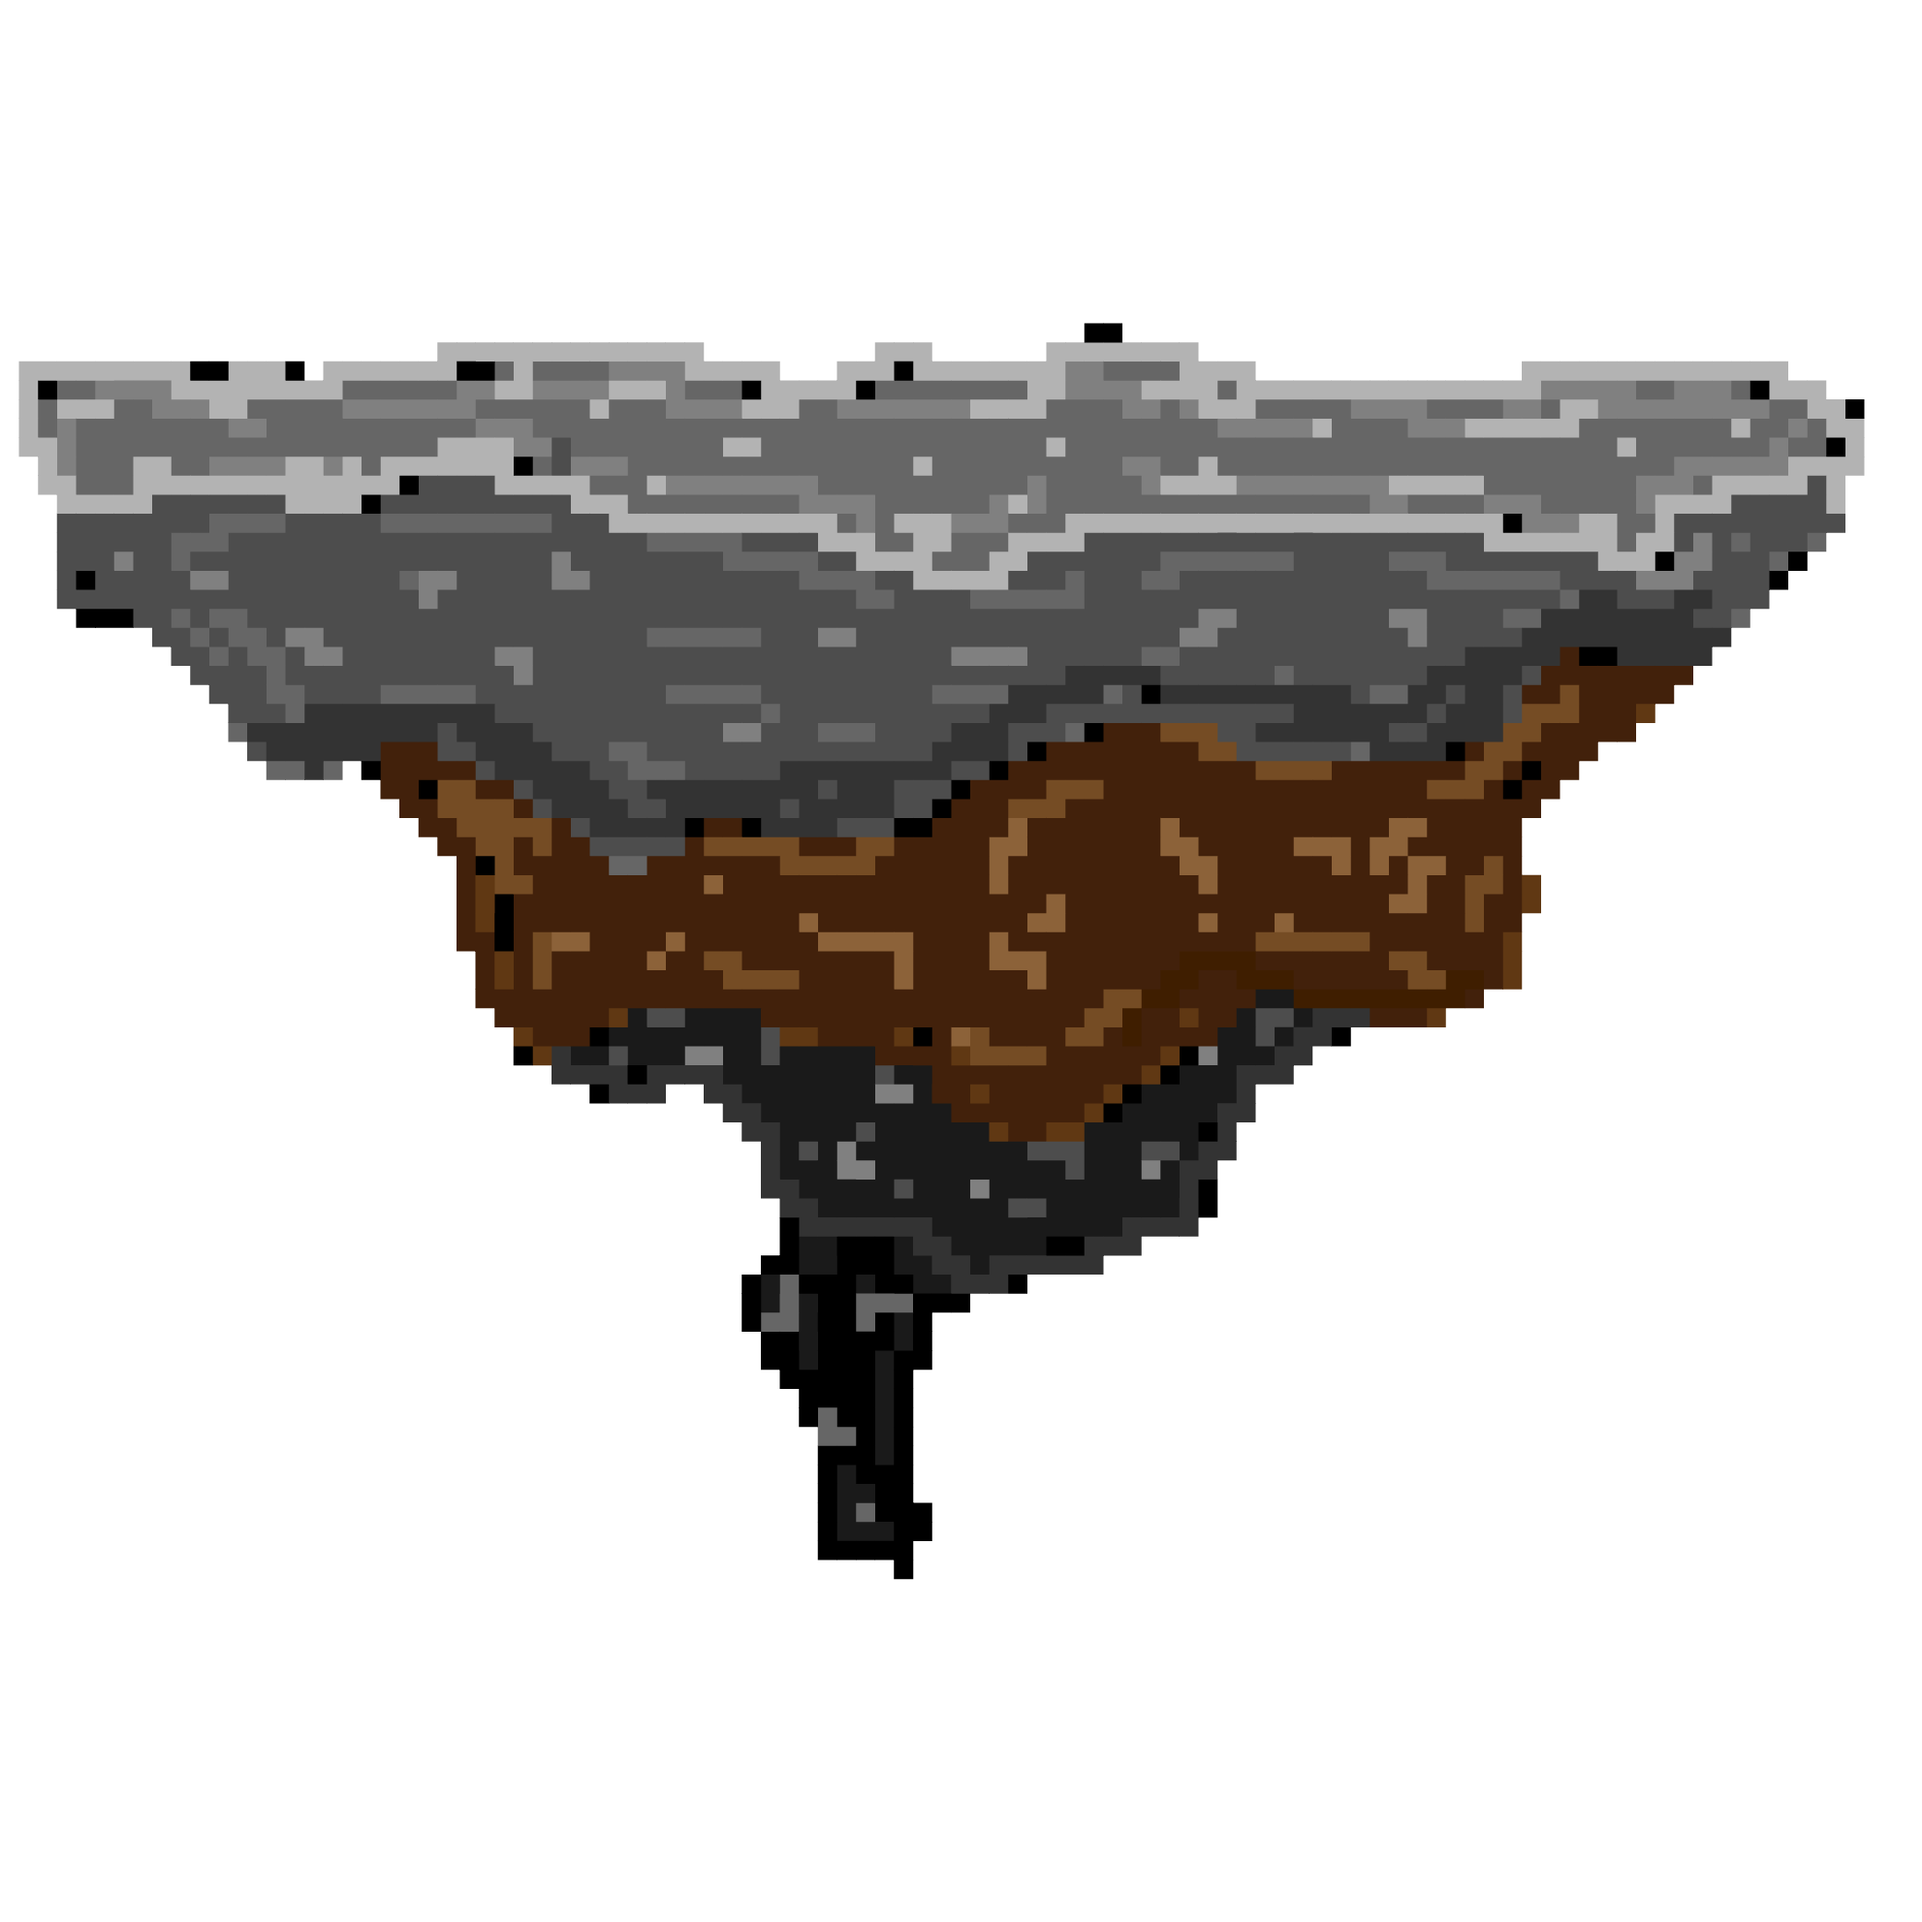
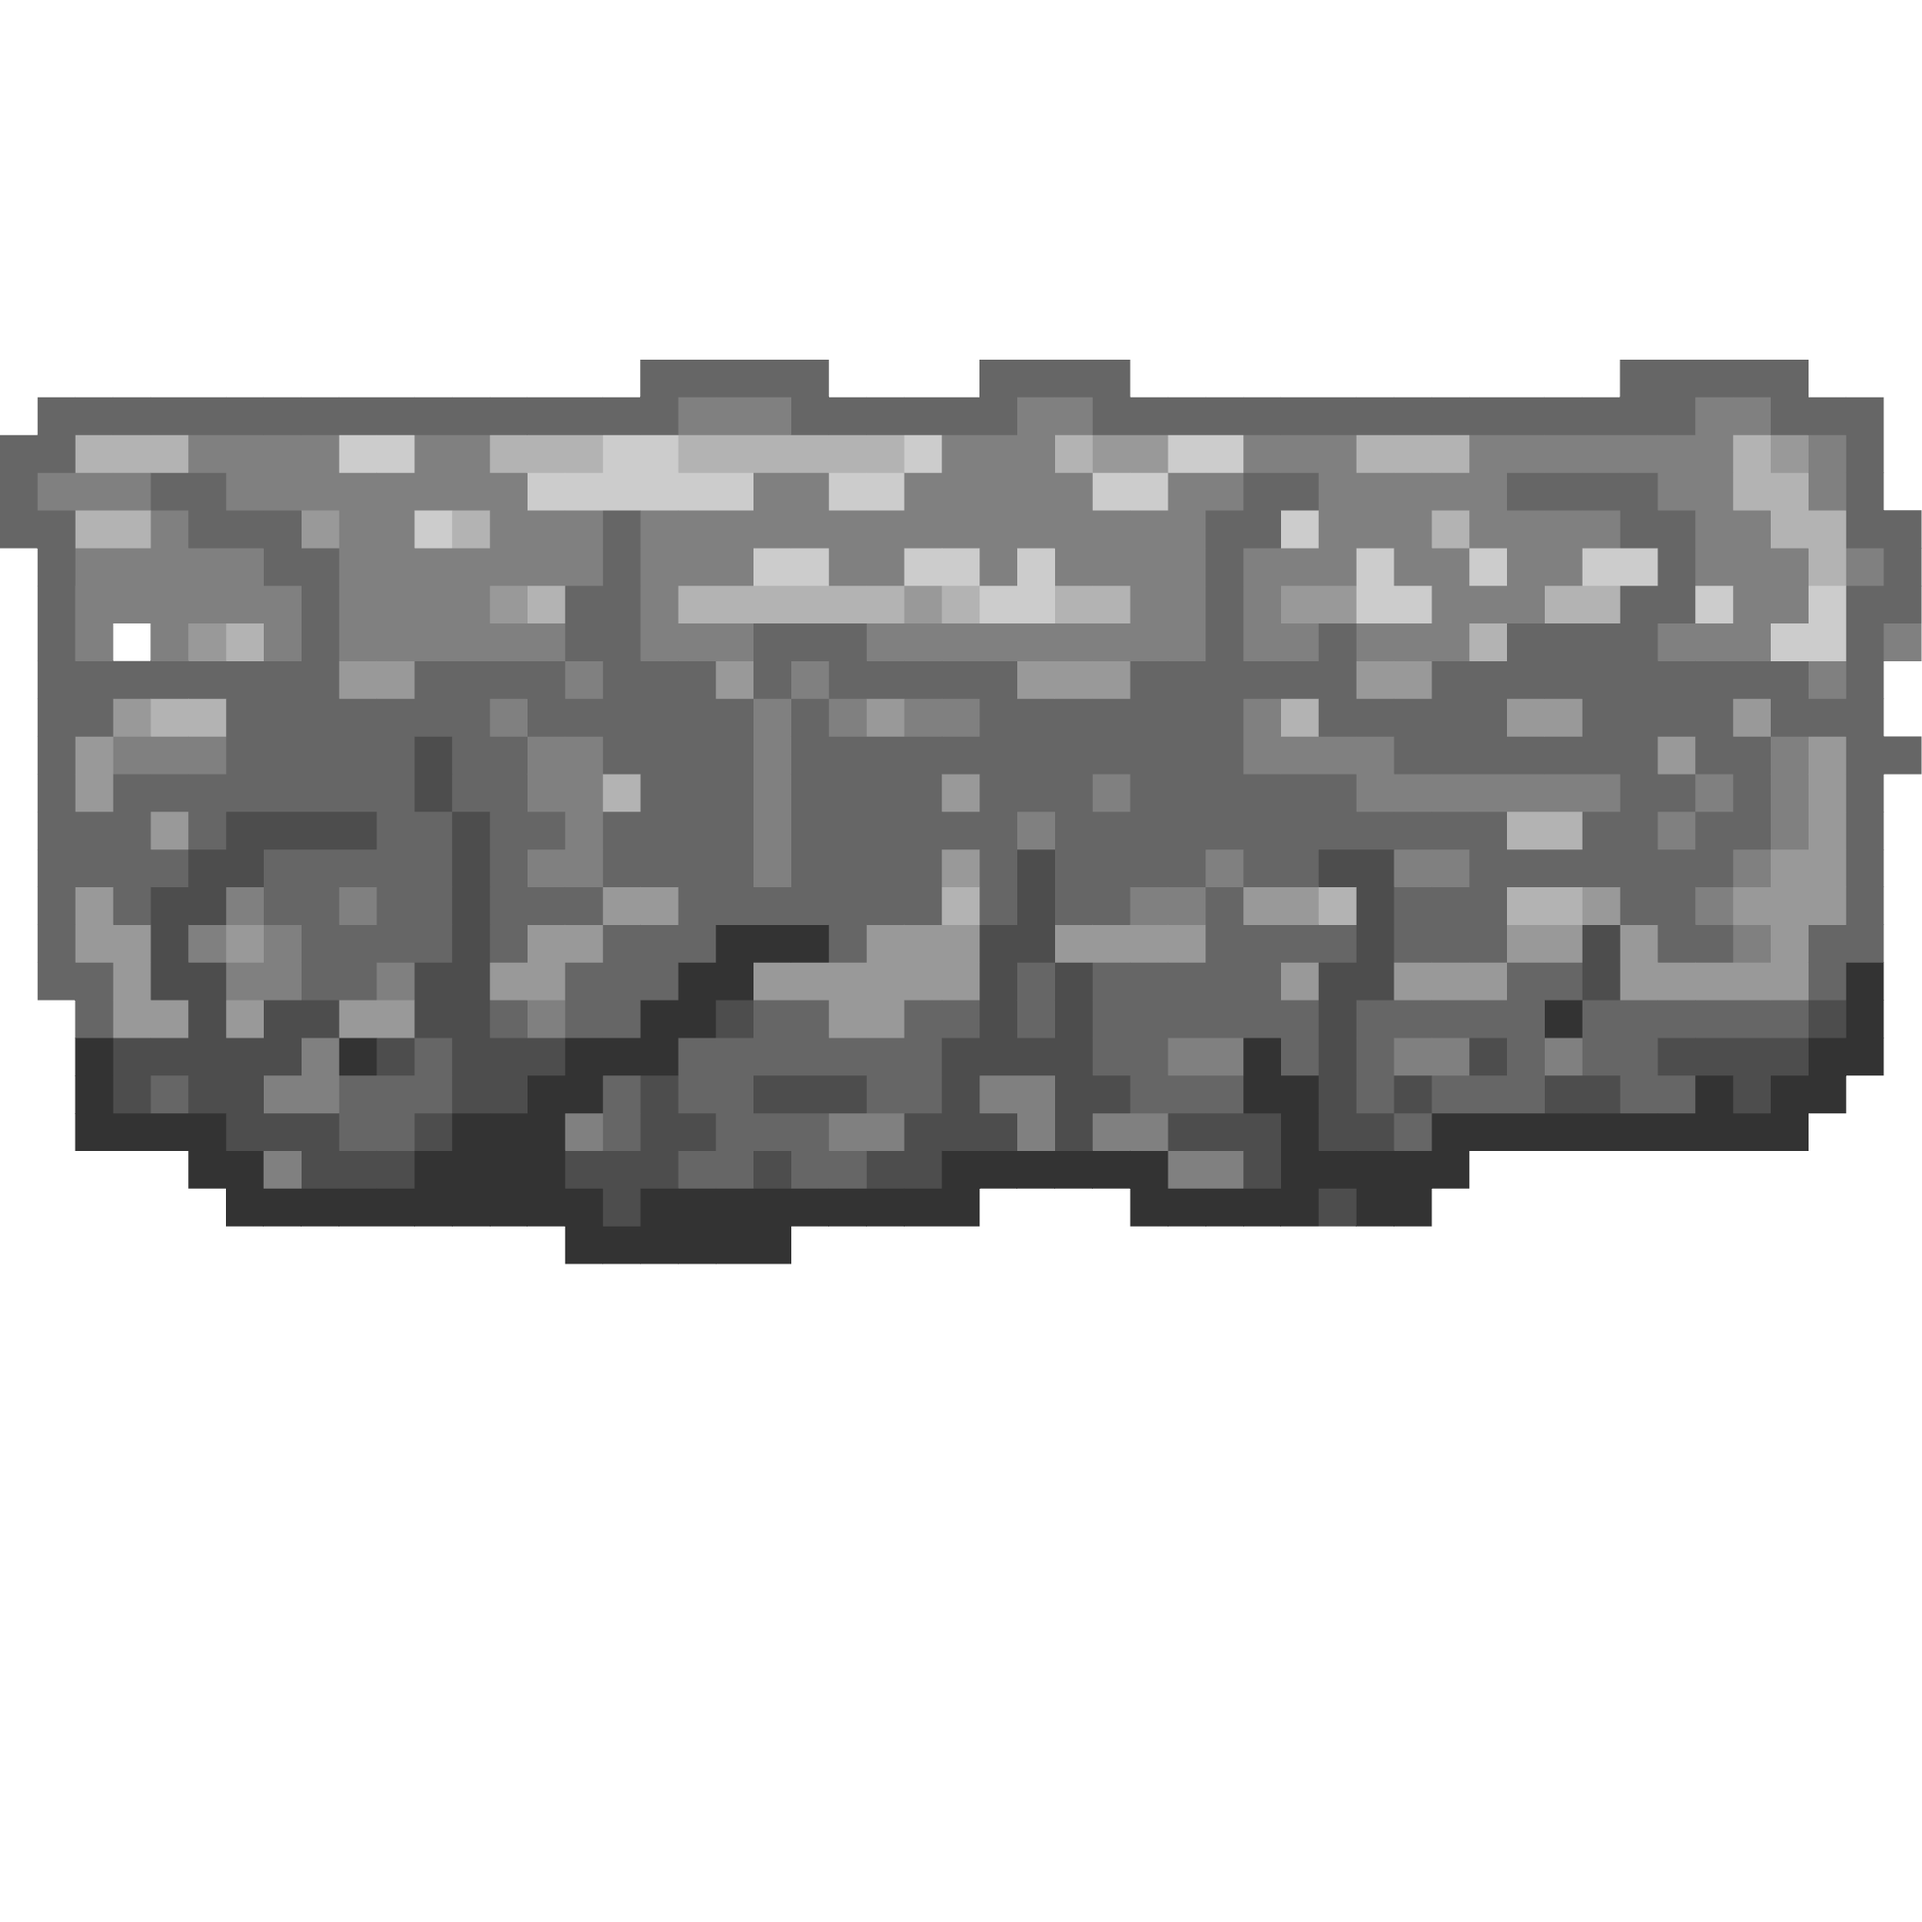
added some stuff

diff --git a/levelThree.js b/levelThree.js
@@ -22,27 +22,27 @@ class LevelThree extends Level
 
     create()
     {
-        this.thePlatformFactory.createPlatform(1100, 600, 150, 150);
-        this.thePlatformFactory.createPlatform(1200, 400, 150, 150);
-        this.thePlatformFactory.createPlatform(300, 700, 850, 250);
-        this.thePlatformFactory.createPlatform(1500, 700, 850, 150);
-        this.thePlatformFactory.createPlatform(2500, 400, 150, 150);
-        this.thePlatformFactory.createPlatform(2800, 200, 350, 150);
-        this.thePlatformFactory.createPlatform(3200, 700, 150, 150);
-        this.thePlatformFactory.createPlatform(3100, 200, 150, 150);
-        this.thePlatformFactory.createPlatform(3400, 300, 150, 150);
-        this.thePlatformFactory.createPlatform(3500, 700, 450, 150);
-        this.thePlatformFactory.createPlatform(3800, 200, 150, 150);
-        this.thePlatformFactory.createPlatform(3900, 700, 150, 150);
-        this.thePlatformFactory.createPlatform(4100, 200, 150, 150);
-        this.thePlatformFactory.createPlatform(4200, 700, 150, 150);
-        this.thePlatformFactory.createPlatform(4500, 200, 150, 150);
-        this.thePlatformFactory.createPlatform(4600, 700, 150, 150);
-        this.thePlatformFactory.createPlatform(4900, 200, 250, 150);
-        this.thePlatformFactory.createPlatform(4800, 700, 50, 150);
-        this.thePlatformFactory.createPlatform(5200, 200, 150, 150);
-        this.thePlatformFactory.createPlatform(5100, 700, 150, 150);
-        this.thePlatformFactory.createPlatform(5400, 700, 250, 150);
+        this.thePlatformFactory.createStreetPlatform(1100, 600, 150, 150);
+        this.thePlatformFactory.createStreetPlatform(1200, 400, 150, 150);
+        this.thePlatformFactory.createStreetPlatform(300, 700, 850, 250);
+        this.thePlatformFactory.createStreetPlatform(1500, 700, 850, 150);
+        this.thePlatformFactory.createStreetPlatform(2500, 400, 150, 150);
+        this.thePlatformFactory.createStreetPlatform(2800, 200, 350, 150);
+        this.thePlatformFactory.createStreetPlatform(3200, 700, 150, 150);
+        this.thePlatformFactory.createStreetPlatform(3100, 200, 150, 150);
+        this.thePlatformFactory.createStreetPlatform(3400, 300, 150, 150);
+        this.thePlatformFactory.createStreetPlatform(3500, 700, 450, 150);
+        this.thePlatformFactory.createStreetPlatform(3800, 200, 150, 150);
+        this.thePlatformFactory.createStreetPlatform(3900, 700, 150, 150);
+        this.thePlatformFactory.createStreetPlatform(4100, 200, 150, 150);
+        this.thePlatformFactory.createStreetPlatform(4200, 700, 150, 150);
+        this.thePlatformFactory.createStreetPlatform(4500, 200, 150, 150);
+        this.thePlatformFactory.createStreetPlatform(4600, 700, 150, 150);
+        this.thePlatformFactory.createStreetPlatform(4900, 200, 250, 150);
+        this.thePlatformFactory.createStreetPlatform(4800, 700, 50, 150);
+        this.thePlatformFactory.createStreetPlatform(5200, 200, 150, 150);
+        this.thePlatformFactory.createStreetPlatform(5100, 700, 150, 150);
+        this.thePlatformFactory.createStreetPlatform(5400, 700, 250, 150);
         
         this.theBadGuyFactory.createSmartBadGuy("chicken-01.png", 1, 2000, 300, 200, 200, this.player, this.theFireballFactory.fireballArray);
         this.theBadGuyFactory.createSmartBadGuy("chicken-01.png", 1, 1000, 500, 200, 200, this.player, this.theFireballFactory.fireballArray);
@@ -50,7 +50,7 @@ class LevelThree extends Level
         this.theBadGuyFactory.createSmartBadGuy("chicken-01.png", 1, 4000, 200, 200, 200, this.player, this.theFireballFactory.fireballArray);
         this.theBadGuyFactory.createSmartBadGuy("chicken-01.png", 1, 5000, 100, 200, 200, this.player, this.theFireballFactory.fireballArray);
 
-        this.theBackgroundFactory.createBackground("hauntedHouseBackground-01.png", 0, -100, 5500, 1100);
+        this.theBackgroundFactory.createBackground("cityBackground-01.png", 0, -100, 5500, 1100);
     
     }
 

diff --git a/platform.js b/platform.js
@@ -20,7 +20,7 @@ class Platform
 
     draw()
     {
-        c.drawImage(this.thePicture,0,400,2100,1100, this.x, this.y, this.length, this.height);
+        c.drawImage(this.thePicture,0,400,2100,1600, this.x, this.y, this.length, this.height);
     }
 
     setX(newX)
@@ -81,11 +81,11 @@ class Platform
 
     checkForCollision(ourPlayer)
     {
-        let playerX = ourPlayer.getX() + 75;
+        let playerX = ourPlayer.getX() + 90;
         let playerY = ourPlayer.getY() + 130;
         let playerYV = ourPlayer.getYVelocity();
 
-        if((playerX >= this.x && playerX <= this.x + this.length) && (playerY <= this.y + 8 && playerY >= this.y - 8))
+        if((playerX >= this.x && playerX <= this.x + this.length + 25) && (playerY <= this.y + 8 && playerY >= this.y - 8))
         {
             if(playerYV >= 0)
             {

diff --git a/platformFactory.js b/platformFactory.js
@@ -24,6 +24,11 @@ class PlatformFactory
         this.platformArray.push(new RockPlatform(newX, newY, newLength, newHeight));
     }
 
+    createStreetPlatform(newX, newY, newLength, newHeight)
+    {
+        this.platformArray.push(new StreetPlatform(newX, newY, newLength, newHeight));
+    }
+
     draw()
     {
         for(let i = 0; i < this.platformArray.length; ++i)

diff --git a/streetPlatform.js b/streetPlatform.js
@@ -1,10 +1,10 @@
-class RockPlatform extends Platform
+class StreetPlatform extends Platform
 {
     constructor(newX, newY, newLength, newHeight)
     {
         super(newX, newY, newLength, newHeight);
         this.thePicture = new Image();
-        this.thePicture.src = "rockPlatform-01.png";
+        this.thePicture.src = "streetPlatform-01.png";
     }
 
     draw()

diff --git a/index.html b/index.html
@@ -22,6 +22,7 @@
         <script src="fireballFactory.js"></script>
         <script src="platform.js"></script>
         <script src="rockPlatform.js"></script>
+        <script src="streetPlatform.js"></script>
         <script src="platformFactory.js"></script>
         <script src="character.js"></script>
         <script src="level.js"></script>
